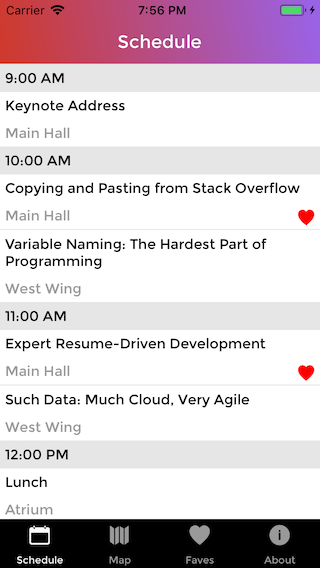
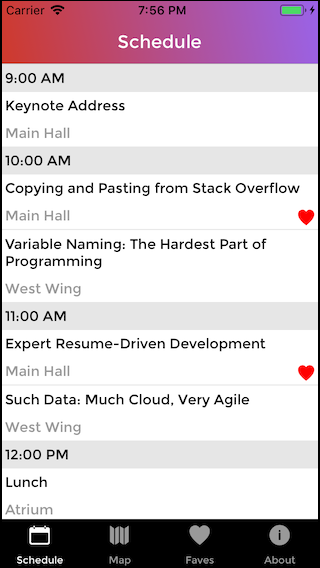
Adjust boarders in app screenshots

Changed region(s): [[0.9688, 0.0, 1.0, 0.9278], [0.0, 0.0, 0.0312, 0.9278]]

diff --git a/README.md b/README.md
@@ -4,12 +4,9 @@ This is a cross-platform mobile app project at RED Academy App Developer Program
 
 ## App Screenshots
 
-<div style="border: 1px; boarder-color: #000000">
 ![Schedule Screen](/public/screenshots/schedule_screen.png =320x568)
-</div>
-<div style="border: 1px; boarder-color: #000000">
+
 ![Session Screen](/public/screenshots/session_screen.png =320x568)
-</div>
 
 ## About the Author
 
